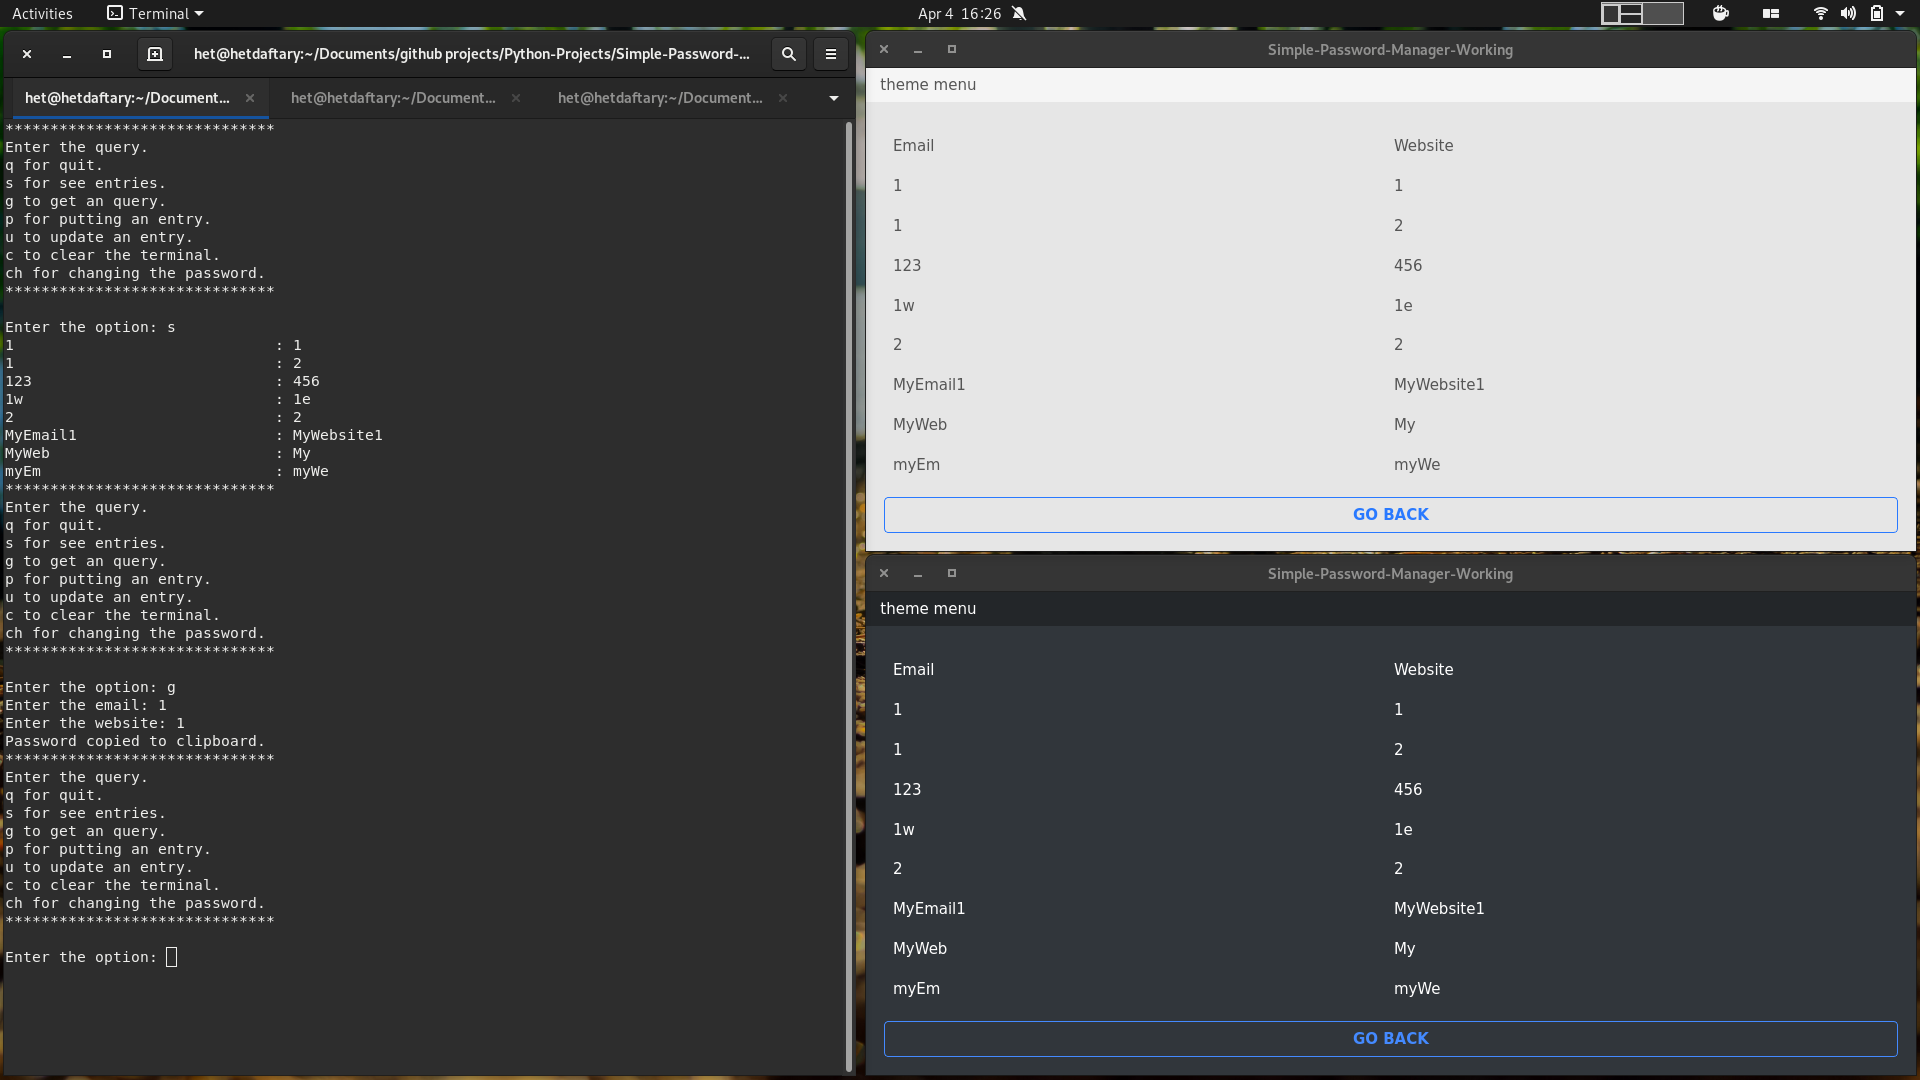
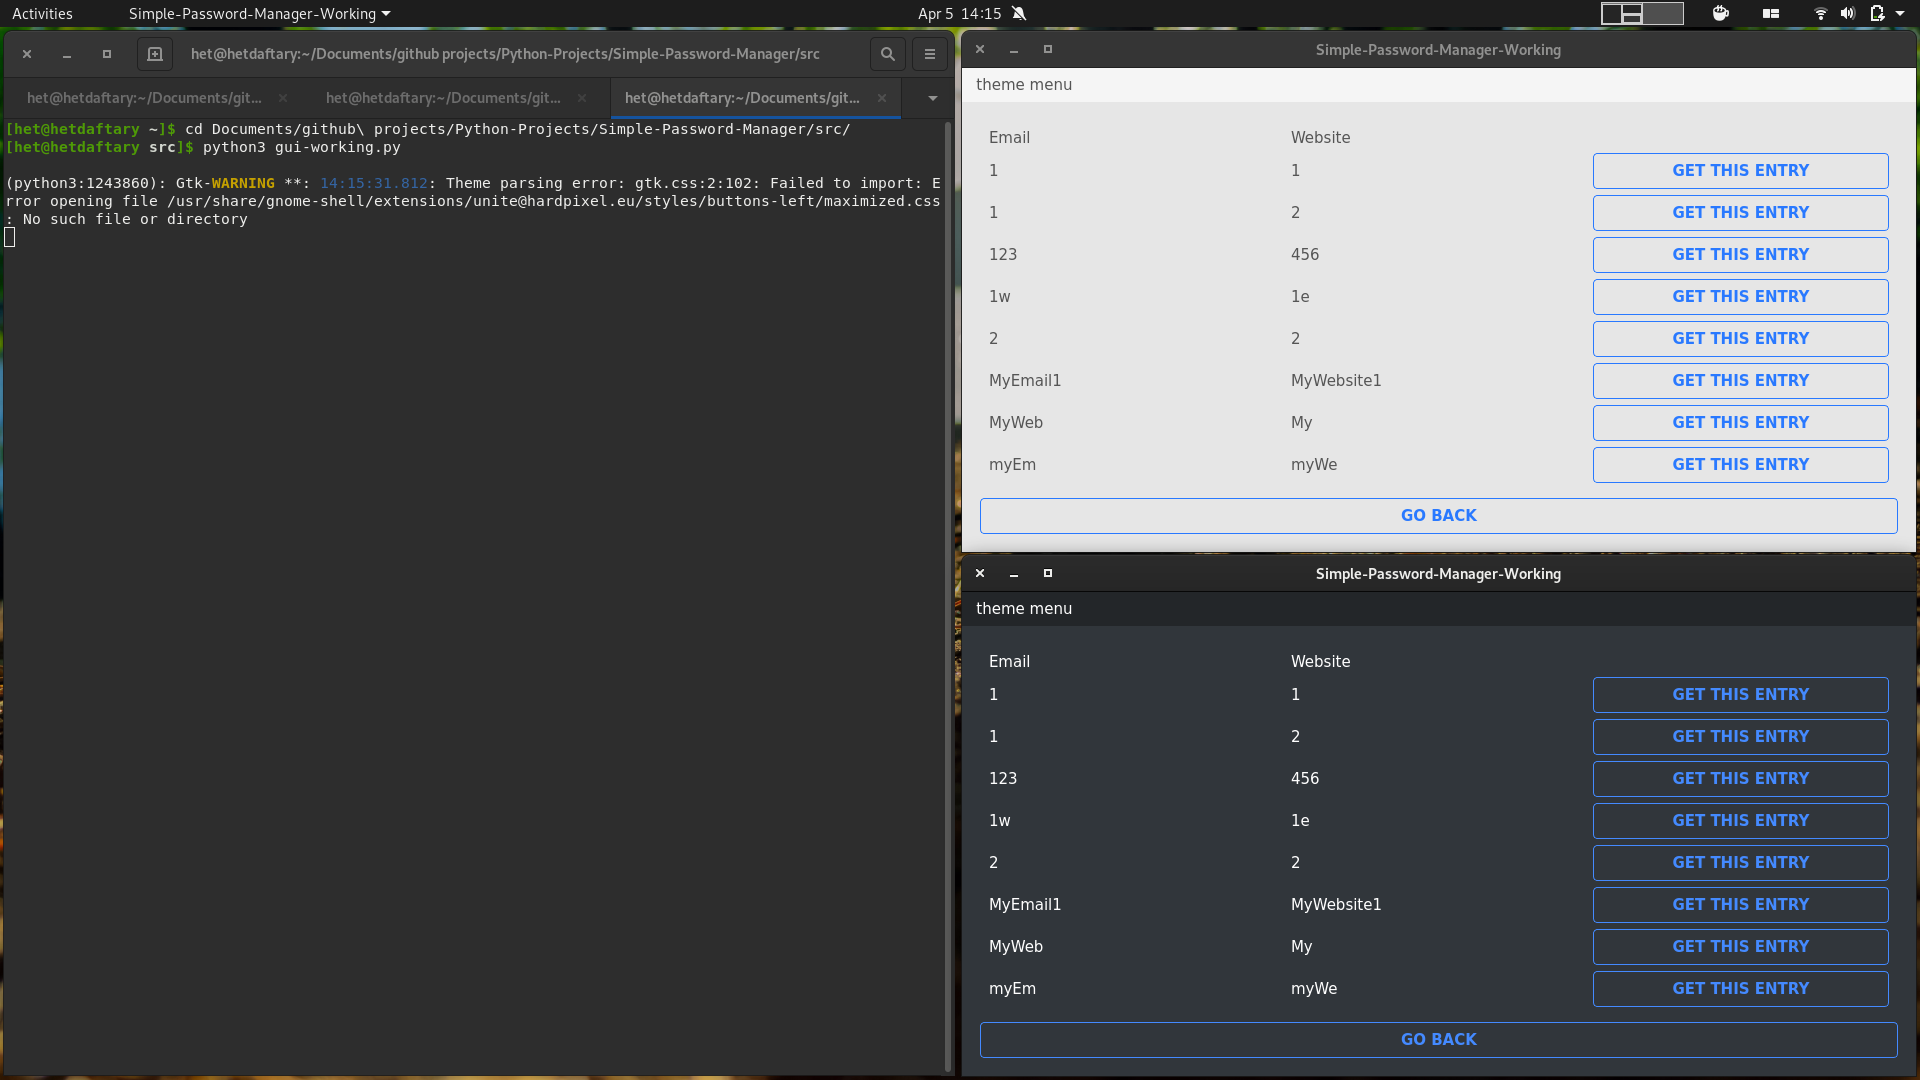
Adding feature to see entries directly from see entries.

diff --git a/Simple-Password-Manager/src/gui-working.py b/Simple-Password-Manager/src/gui-working.py
@@ -4,6 +4,7 @@ from sys import argv, exit
 from clipboard import copy
 from darkdetect import isDark
 from qt_material import apply_stylesheet
+from copy import deepcopy
 
 darkTheme, lightTheme = 'dark_blue.xml', 'light_blue.xml'
 
@@ -352,7 +353,7 @@ class GUI:
         self.getEntryPage.show()
 
     def seeEntries(self):
-        currentEntries = self.working.seeEntries()
+        self.currentEntries = self.working.seeEntries()
 
         self.cleanAWidget(self.placeToPutEntriesLayout)
 
@@ -360,12 +361,19 @@ class GUI:
 
         self.placeToPutEntriesLayout.addWidget(QLabel("Email"), 0, 0)
         self.placeToPutEntriesLayout.addWidget(QLabel("Website"), 0, 1)
+        self.placeToPutEntriesLayout.addWidget(QLabel(""), 0, 2)
 
-        for i in currentEntries:
+        for i in range(len(self.currentEntries)):
             countV = 0
-            for j in i:
+            for j in self.currentEntries[i]:
                 self.placeToPutEntriesLayout.addWidget(QLabel(text = j), count, countV)
+                # print(count, countV)
                 countV += 1
+            currentButton = QPushButton("Get this Entry")
+            currentButton.clicked.connect(lambda _, a=i: self.getPasswordFromButton(self.currentEntries[a]))
+            self.placeToPutEntriesLayout.addWidget(currentButton, count, countV)
+            countV += 1
+
             count += 1
 
         self.workingPage.hide()
@@ -429,6 +437,8 @@ class GUI:
             self.errorsInGetEntryLabel.setText("Record does not exist.")
             self.errorsInGetEntryLabel.adjustSize()
 
+    def getPasswordFromButton(self, toget):
+       self.getPassword(toget[1], toget[0]) 
 
     def getPassword(self, website, email):
         copy(self.working.getEntry(email, website))

diff --git a/Simple-Password-Manager/README.md b/Simple-Password-Manager/README.md
@@ -11,7 +11,7 @@ Authentication done using SHA-512
 * When getting an entry, it automatically puts the pass in the clipboard so you can paste it in the website.
 * Supports multiple rounds of hashing. Currently setup for 1000 rounds of hash function. 
 * Easy to change the number of rounds, just need to open Encryption.py and change the HASH_COUNT constant.
-* Current Version: <b>1.2</b>
+* Current Version: <b>1.3</b>
 ## How to run it:
 * Command-Line:
   * Step 1: Setup. For this, run commandline-setup.py file and enter the password.
